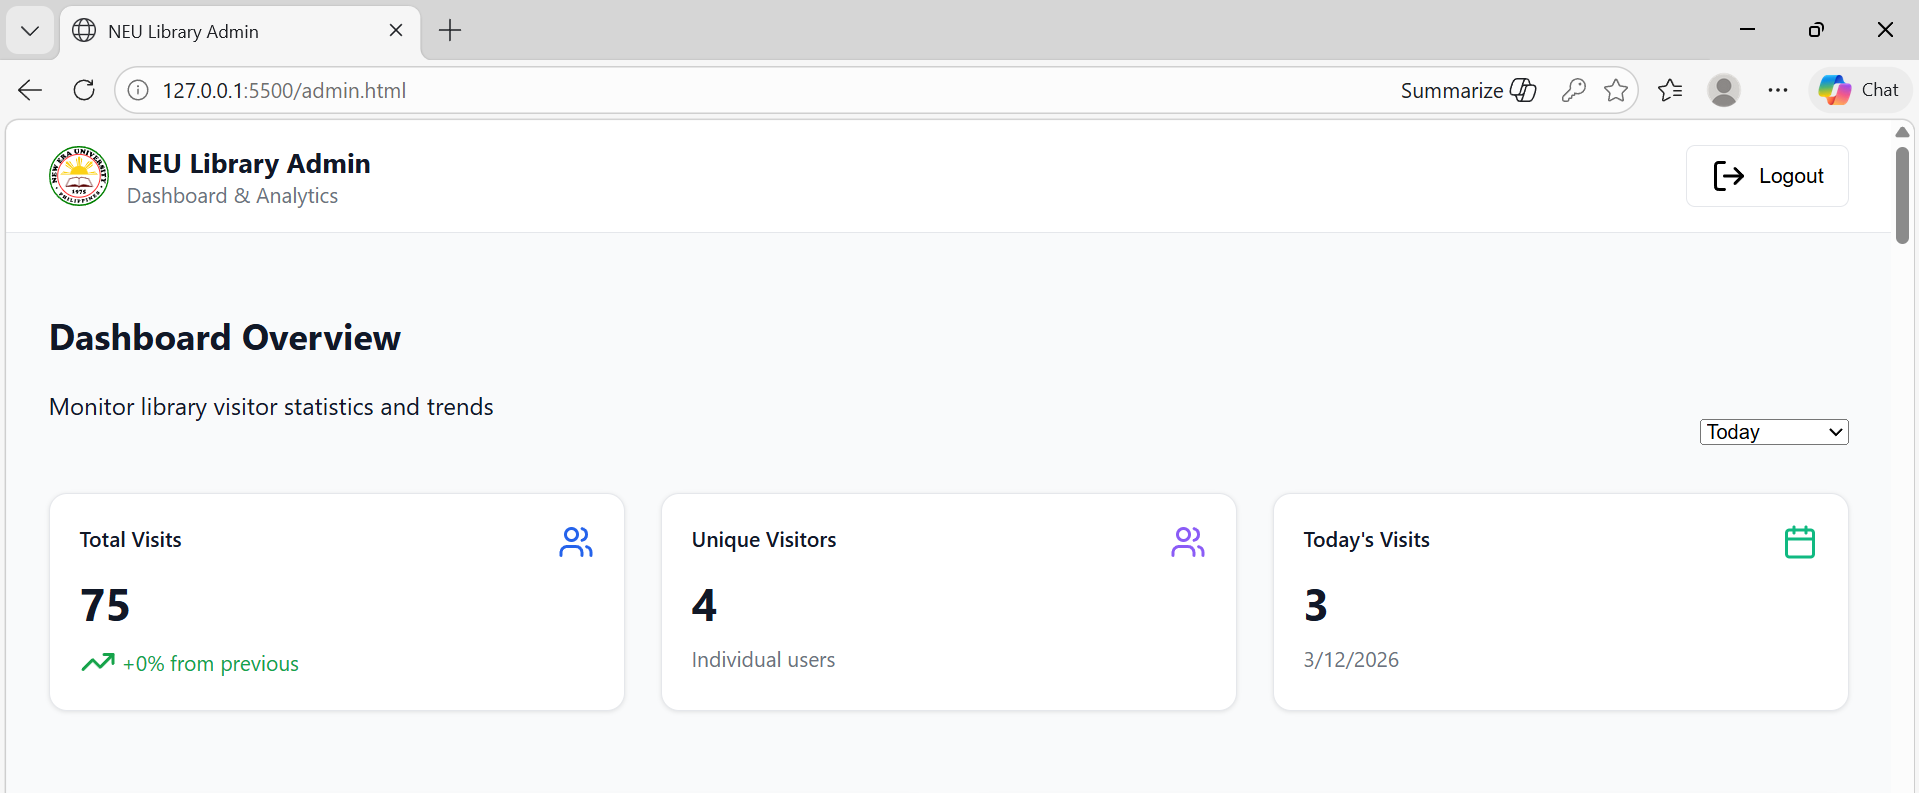
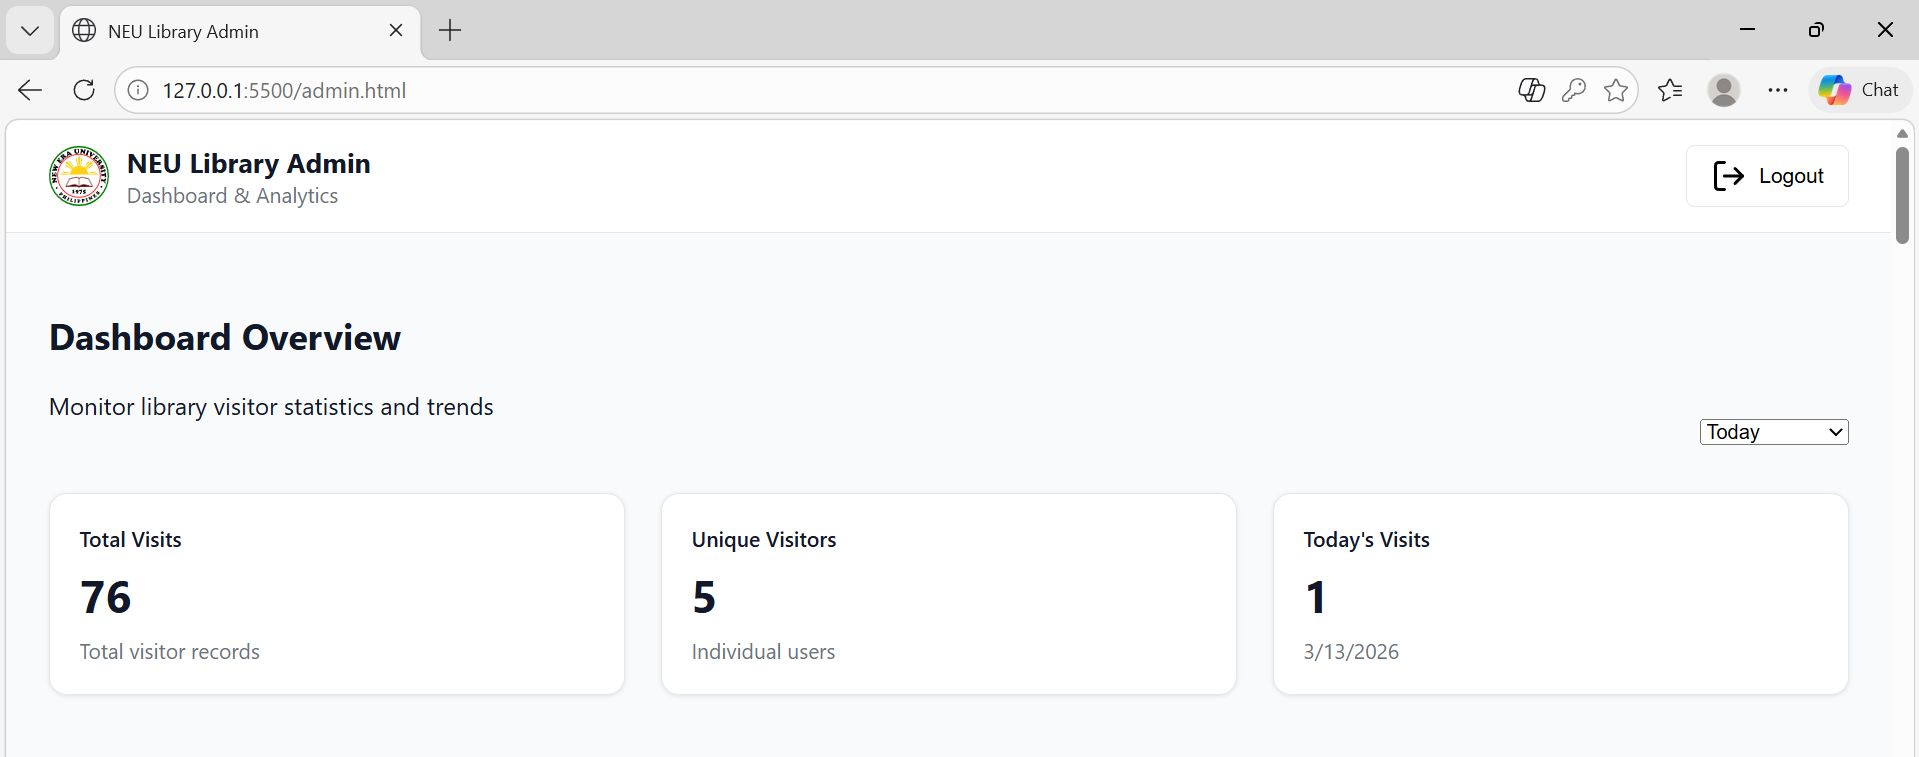
Update admin dashboard UI

diff --git a/dmnview.css b/dmnview.css
@@ -28,52 +28,210 @@ body {
     justify-content: space-between;
     align-items: center;
 }
-.brand { display: flex; align-items: center; gap: 0.75rem; }
-.logo-box { display: flex; }
-.brand h1 { font-size: 1.125rem; margin: 0; }
-.brand p { font-size: 0.875rem; color: var(--muted); margin: 0; }
+.brand { 
+    display: flex; 
+    align-items: center; 
+    gap: 0.75rem; 
+}
+.logo-box { 
+    display: flex; 
+}
+.brand h1 { 
+    font-size: 1.125rem; 
+    margin: 0; 
+}
+.brand p { 
+    font-size: 0.875rem; 
+    color: var(--muted); 
+    
+    margin: 0; 
+}
 
-.container { max-width: 1200px; margin: 2rem auto; padding: 0 1rem; }
+.container { 
+    max-width: 1200px; 
+    margin: 2rem auto; 
+    padding: 0 1rem; 
+}
 
-.dashboard-head { display: flex; justify-content: space-between; align-items: flex-end; margin-bottom: 2rem; }
+.dashboard-head { 
+    display: flex; 
+    justify-content: space-between; 
+    align-items: flex-end; 
+    margin-bottom: 2rem; 
+}
 
-.stats-grid { display: grid; grid-template-columns: repeat(auto-fit, minmax(300px, 1fr)); gap: 1.5rem; margin-bottom: 2rem; }
-.card { background: white; border: 1px solid var(--border); border-radius: 12px; box-shadow: 0 1px 3px rgba(0,0,0,0.1); margin-bottom: 1.5rem; }
-.card-header-flex { display: flex; justify-content: space-between; padding: 1.25rem 1.25rem 0.5rem; }
-.card-title { font-size: 0.875rem; font-weight: 500; }
-.card-body { padding: 0 1.25rem 1.25rem; }
-.stat-value { font-size: 1.875rem; font-weight: 700; }
-.stat-label { font-size: 0.875rem; margin-top: 0.5rem; color: var(--muted); display:flex; align-items:center; gap:4px; }
+.stats-grid { 
+    display: grid; 
+    grid-template-columns: repeat(auto-fit, minmax(300px, 1fr)); 
+    gap: 1.5rem; 
+    margin-bottom: 2rem; 
+}
+.card { 
+    background: white; 
+    border: 1px solid var(--border); 
+    border-radius: 12px; 
+    box-shadow: 0 1px 3px rgba(0,0,0,0.1); 
+    margin-bottom: 1.5rem; 
+}
+.card-header-flex { 
+    display: flex; 
+    justify-content: space-between; 
+    padding: 1.25rem 1.25rem 0.5rem; 
+}
+.card-title { 
+    font-size: 0.875rem; 
+    font-weight: 500; 
+}
+.card-body { 
+    padding: 0 1.25rem 1.25rem; 
+}
+.stat-value { 
+    font-size: 1.875rem; 
+    font-weight: 700; 
+}
+.stat-label { 
+    font-size: 0.875rem; 
+    margin-top: 0.5rem; 
+    color: var(--muted); 
+    display:flex; 
+    align-items:center; 
+    gap:4px; 
+}
 
-.charts-grid { display: grid; grid-template-columns: 1fr 1fr; gap: 1.5rem; margin-bottom: 1.5rem; }
-.chart-container { padding:1rem; height:300px; }
+.charts-grid { 
+    display: grid; 
+    grid-template-columns: 1fr 1fr; 
+    gap: 1.5rem;
+    margin-bottom: 1.5rem; 
+}
+.chart-container { 
+    padding:1rem; 
+    height:300px; 
+}
 
-.tabs-header { display:flex; border-bottom:1px solid var(--border); padding:0 1rem; gap:1rem; }
-.tab-trigger { padding:1rem; border:none; background:none; cursor:pointer; font-weight:500; color: var(--muted); border-bottom:2px solid transparent; }
-.tab-trigger.active { color: var(--primary); border-bottom-color: var(--primary); }
-.tab-content { display:none; padding:1.25rem; }
-.tab-content.active { display:block; }
+.tabs-header { 
+    display:flex; 
+    border-bottom:1px solid var(--border); 
+    padding:0 1rem; 
+    gap:1rem; 
+}
+.tab-trigger { 
+    padding:1rem; 
+    border:none; 
+    background:none; 
+    cursor:pointer; 
+    font-weight:500; 
+    color: var(--muted);
+    border-bottom:2px solid transparent; 
+}
+.tab-trigger.active { 
+    color: var(--primary); 
+    border-bottom-color: var(--primary); 
+}
+.tab-content { 
+    display:none; 
+    padding:1.25rem; 
+}
+.tab-content.active { 
+    display:block; 
+}
 
-.search-bar { position:relative; margin-bottom:1rem; }
-.search-bar i { position:absolute; left:12px; top:12px; color:var(--muted); width:16px; }
-.search-bar input { width:100%; padding:0.75rem 0.75rem 0.75rem 2.5rem; border:1px solid var(--border); border-radius:8px; box-sizing:border-box; }
+.search-bar { 
+    position:relative; 
+    margin-bottom:1rem; 
+}
+.search-bar i { 
+    position:absolute; 
+    left:12px; 
+    top:12px; 
+    color:var(--muted); 
+    width:16px; 
+}
+.search-bar input { 
+    width:100%; 
+    padding:0.75rem 0.75rem 0.75rem 2.5rem; 
+    border:1px solid var(--border); 
+    border-radius:8px; 
+    box-sizing:border-box; 
+}
 
-.table-wrapper { border:1px solid var(--border); border-radius:8px; overflow:hidden; }
-table { width:100%; border-collapse:collapse; font-size:0.875rem; }
-th { background:#f9fafb; text-align:left; padding:0.75rem 1rem; border-bottom:1px solid var(--border); color:var(--muted); }
-td { padding:1rem; border-bottom:1px solid var(--border); }
+.table-wrapper { 
+    border:1px solid var(--border); 
+    border-radius:8px; 
+    overflow:hidden; 
+}
+table { 
+    width:100%; 
+    border-collapse:collapse; 
+    font-size:0.875rem; 
+}
+th { 
+    background:#f9fafb; 
+    text-align:left; 
+    padding:0.75rem 1rem; 
+    border-bottom:1px solid var(--border); 
+    color:var(--muted); 
+}
+td { 
+    padding:1rem; 
+    border-bottom:1px solid var(--border); 
+}
 
-.btn { padding:0.5rem 1rem; border-radius:6px; cursor:pointer; display:inline-flex; align-items:center; gap:0.5rem; font-size:0.875rem; }
-.btn-outline { border:1px solid var(--border); background:white; }
-.btn-danger { background:#fee2e2; color:#dc2626; border:1px solid #fecaca; }
-.badge { padding:2px 8px; border-radius:99px; font-size:0.75rem; font-weight:500; background:#f3f4f6; border:1px solid var(--border); }
+.btn { 
+    padding:0.5rem 1rem; 
+    border-radius:6px; 
+    cursor:pointer; 
+    display:inline-flex; 
+    align-items:center; 
+    gap:0.5rem; 
+    font-size:0.875rem; 
+}
+.btn-outline { 
+    border:1px solid var(--border); 
+    background:white; 
+}
+.btn-danger { 
+    background:#fee2e2; 
+    color:#dc2626; 
+    border:1px solid #fecaca; 
+}
+.badge { 
+    padding:2px 8px; 
+    border-radius:99px; 
+    font-size:0.75rem; 
+    font-weight:500; 
+    background:#f3f4f6; 
+    border:1px solid var(--border); 
+}
 
-.icon-blue { color:#2563eb; }
-.icon-purple { color:#8b5cf6; }
-.icon-green { color:#10b981; }
-.text-green { color:#16a34a; }
-.text-right { text-align:right; }
+.icon-blue { 
+    color:#2563eb; 
+}
+.icon-purple { 
+    color:#8b5cf6; 
+}
+.icon-green { 
+    color:#10b981; 
+}
+.text-green { 
+    color:#16a34a; 
+}
+.text-right { 
+    text-align:right; 
+}
 
-.badge-active  { background: #dcfce7; color: #16a34a; border-color: #bbf7d0; }
-.badge-blocked { background: #fee2e2; color: #dc2626; border-color: #fecaca; }
-.btn-success   { background: #dcfce7; color: #16a34a; border: 1px solid #bbf7d0; }
+.badge-active  { 
+    background: #dcfce7; 
+    color: #16a34a; 
+    border-color: #bbf7d0; 
+}
+.badge-blocked { 
+    background: #fee2e2; 
+    color: #dc2626; 
+    border-color: #fecaca; 
+}
+.btn-success { 
+    background: #dcfce7; 
+    color: #16a34a; 
+    border: 1px solid #bbf7d0; 
+}

diff --git a/admin.html b/admin.html
@@ -46,19 +46,15 @@
     <div class="card">
       <div class="card-header-flex">
         <span class="card-title">Total Visits</span>
-        <i data-lucide="users" class="icon-blue"></i>
       </div>
       <div class="card-body">
         <div class="stat-value" id="stat-total">0</div>
-        <div class="stat-label text-green">
-          <i data-lucide="trending-up"></i> +0% from previous
-        </div>
+      <div class="stat-label">Total visitor records</div>
       </div>
     </div>
     <div class="card">
       <div class="card-header-flex">
         <span class="card-title">Unique Visitors</span>
-        <i data-lucide="users" class="icon-purple"></i>
       </div>
       <div class="card-body">
         <div class="stat-value" id="stat-unique">0</div>
@@ -68,7 +64,6 @@
     <div class="card">
       <div class="card-header-flex">
         <span class="card-title">Today's Visits</span>
-        <i data-lucide="calendar" class="icon-green"></i>
       </div>
       <div class="card-body">
         <div class="stat-value" id="stat-today">0</div>
@@ -142,8 +137,6 @@
 
 </main>
 
-<!-- <script type="module" src="dmnview.js"></script> -->
- <!-- <script type="module" src="js/dmnview.js"></script> -->
   <script type="module" src="dmnview.js"></script>
 </body>
 </html>
